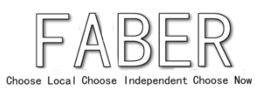
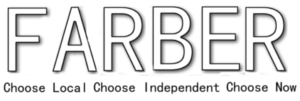
update

diff --git a/newindex.html b/newindex.html
@@ -1,7 +1,13 @@
 <!DOCTYPE html>
 <html>
 <head>
-	<title>Faber</title>
+	<title>Farber</title>
+<script>
+  (function(i,s,o,g,r,a,m){i['GoogleAnalyticsObject']=r;i[r]=i[r]||function(){
+  (i[r].q=i[r].q||[])<!DOCTYPE html>
+<html>
+<head>
+	<title>Farber</title>
 <script>
   (function(i,s,o,g,r,a,m){i['GoogleAnalyticsObject']=r;i[r]=i[r]||function(){
   (i[r].q=i[r].q||[]).push(arguments)},i[r].l=1*new Date();a=s.createElement(o),
@@ -40,23 +46,23 @@
 			<ul>
 				<li>The simplest and easiest way for you to order an emergency plumber</li>
 				<li>The no fuss app that brings work directly to you, the plumber</li>
-				<li>Faber doesnt lock you in. Its an on demand service for both plumbers and customers. GET IT NOW!</li>
+				<li>Farber doesnt lock you in. Its an on demand service for both plumbers and customers. GET IT NOW!</li>
 			</ul>
 			<img  id="arrow" src="arrow.png" alt="arrow">
-			<p>"Put simply. Faber is a middleman. Its for anyone looking for a plumber and for any plumber looking for their next customer. 
+			<p>"Put simply. Farber is a middleman. Its for anyone looking for a plumber and for any plumber looking for their next customer. 
 			Farber isnt a review site. It isnt Checkatrade. Its an app that lets you book and pay for a local and independent plumber. Whenever YOU want."  </p>
 			
 		</section>
 		
 		<section id="form">
-			<h1>ORDER AN EMERGENCY PLUMBER WITH FABER TODAY</h1>
+			<h1>ORDER AN EMERGENCY PLUMBER WITH FARBER TODAY</h1>
 			<form action="//formspree.io/Rob1white12@me.com" method="post">
     		<p><label for="name">Name </label><input type="text" name="name"></p>
    			<p><label for="location">Location </label><input type="text" name="location"></p>
     		<p><label for="Email">Email </label><input type="email" name="_replyto"></p>
     		<p><input type="radio" name="User_Type" value="Plumber" checked>Plumber<br><input type="radio" name="User_Type" value="Customer">Customer</p>
 			<p><input type="submit" value="Start using Farber"></p>
-    		<input type="hidden" name="_subject" value="Im interested in using Faber" />
+    		<input type="hidden" name="_subject" value="Im interested in using Farber" />
 			</form>
 		</section>
 	</div>
@@ -65,17 +71,17 @@
 		<section id="choose_local">
 			<article>
 				<h1>CHOOSE LOCAL</h1>
-				<p>As a Customer, Faber lets you decide the location with which your Plumber is coming from.</P>
-				<p>As a Plumber, Faber gives you local work like never before.</p> 
-				<p>Faber allows individuals to book a Plumber to do on demand work when it needs to be done.</p>
+				<p>As a Customer, Farber lets you decide the location with which your Plumber is coming from.</P>
+				<p>As a Plumber, Farber gives you local work like never before.</p> 
+				<p>Farber allows individuals to book a Plumber to do on demand work when it needs to be done.</p>
 			</article>
 		</section>
 		
 		<section id="choose_independent">
 			<article>
 				<h1>CHOOSE INDEPENDENT</h1>
-				<p>Dont worry about all those corporate, faceless firms out there. Faber gives you access to the independent plumbers in the area.</p>
-				<p>Are you an independent plumber? fear not. Faber lets you compete with the big boys but leaves you in control</p>
+				<p>Dont worry about all those corporate, faceless firms out there. Farber gives you access to the independent plumbers in the area.</p>
+				<p>Are you an independent plumber? fear not. Farber lets you compete with the big boys but leaves you in control</p>
 				<p>Farber's key is that it doesnt take control away from the customer or the plumber. It simply matches your needs.</p>
 			</article>
 		</section>
@@ -83,16 +89,16 @@
 		<section id="choose_now">
 			<article>
 				<h1>CHOOSE NOW</h1>
-				<p>Faber gives you access to a plumber when you want them. which is invariably now.</p>
-				<p>Looking for your next customer? Faber lets you decide when you ant to work. If you want to work now then the work gets sent to you.</p>
-				<p>Why waste time googling or ringing around. Faber is simple. If you want it now then Faber makes it happen </p>
+				<p>Farber gives you access to a plumber when you want them. which is invariably now.</p>
+				<p>Looking for your next customer? Farber lets you decide when you ant to work. If you want to work now then the work gets sent to you.</p>
+				<p>Why waste time googling or ringing around. Farber is simple. If you want it now then Farber makes it happen </p>
 			</article>
 		</section>
 	</div>
 	
 	<footer>
 		<section id="social">
-	<div class="fb-share-button" data-href="http://iwantfaber.com/" data-layout="button_count"></div>
+	<div class="fb-share-button" data-href="http://iwantfarber.com/" data-layout="button_count"></div>
 	<a href="https://twitter.com/share" class="twitter-share-button" data-size="large">Tweet</a>
 	<script>!function(d,s,id){var js,fjs=d.getElementsByTagName(s)[0],p=/^http:/.test(d.location)?'http':'https';if(!d.getElementById(id)){js=d.createElement(s);js.id=id;js.src=p+'://platform.twitter.com/widgets.js';fjs.parentNode.insertBefore(js,fjs);}}(document, 'script', 'twitter-wjs');</script>
 	<script src="//platform.linkedin.com/in.js" type="text/javascript">
@@ -102,9 +108,10 @@
 		</section>
 		
 		<section id="Contact">
-			Contact our enquiries team at <a href="mailto:enquiries@iwantfaber.com?subject=Enquiry">Enquiries@iwantfaber.com</a> 
+			Contact our enquiries team at <a href="mailto:enquiries@iwantfarber.com?subject=Enquiry">Enquiries@iwantfarber.com</a> 
 		</section>
 		
 	</footer>
 	
 </body>
+</html>

diff --git a/newcss.css b/newcss.css
@@ -1,11 +1,30 @@
 header {
-background: #cedce7; /* Old browsers */
-background: -moz-linear-gradient(top,  #cedce7 0%, #596a72 100%); /* FF3.6+ */
-background: -webkit-gradient(linear, left top, left bottom, color-stop(0%,#cedce7), color-stop(100%,#596a72)); /* Chrome,Safari4+ */
-background: -webkit-linear-gradient(top,  #cedce7 0%,#596a72 100%); /* Chrome10+,Safari5.1+ */
-background: -o-linear-gradient(top,  #cedce7 0%,#596a72 100%); /* Opera 11.10+ */
-background: -ms-linear-gradient(top,  #cedce7 0%,#596a72 100%); /* IE10+ */
-background: linear-gradient(to bottom,  #cedce7 0%,#596a72 100%); /* W3C */
-filter: progid:DXImageTransform.Microsoft.gradient( startColorstr='#cedce7', endColorstr='#596a72',GradientType=0 ); /* IE6-9 */
+	width: 98%;
+	text-align:left;
+}
 
+#form_benefits {
+	
+	background: #7db9e8; /* Old browsers */
+background: -moz-linear-gradient(top,  #7db9e8 0%, #207cca 49%, #2989d8 64%, #1e5799 100%); /* FF3.6+ */
+background: -webkit-gradient(linear, left top, left bottom, color-stop(0%,#7db9e8), color-stop(49%,#207cca), color-stop(64%,#2989d8), color-stop(100%,#1e5799)); /* Chrome,Safari4+ */
+background: -webkit-linear-gradient(top,  #7db9e8 0%,#207cca 49%,#2989d8 64%,#1e5799 100%); /* Chrome10+,Safari5.1+ */
+background: -o-linear-gradient(top,  #7db9e8 0%,#207cca 49%,#2989d8 64%,#1e5799 100%); /* Opera 11.10+ */
+background: -ms-linear-gradient(top,  #7db9e8 0%,#207cca 49%,#2989d8 64%,#1e5799 100%); /* IE10+ */
+background: linear-gradient(to bottom,  #7db9e8 0%,#207cca 49%,#2989d8 64%,#1e5799 100%); /* W3C */
+filter: progid:DXImageTransform.Microsoft.gradient( startColorstr='#7db9e8', endColorstr='#1e5799',GradientType=0 ); /* IE6-9 */
+
+}
+
+#benefits {
+	width: 48%;
+	float: left;
+	list-style-image:url(Semi_success_Icon_128.png);
+}
+
+}
+
+#form {
+	width: 48%;
+	display: inline;
 }
